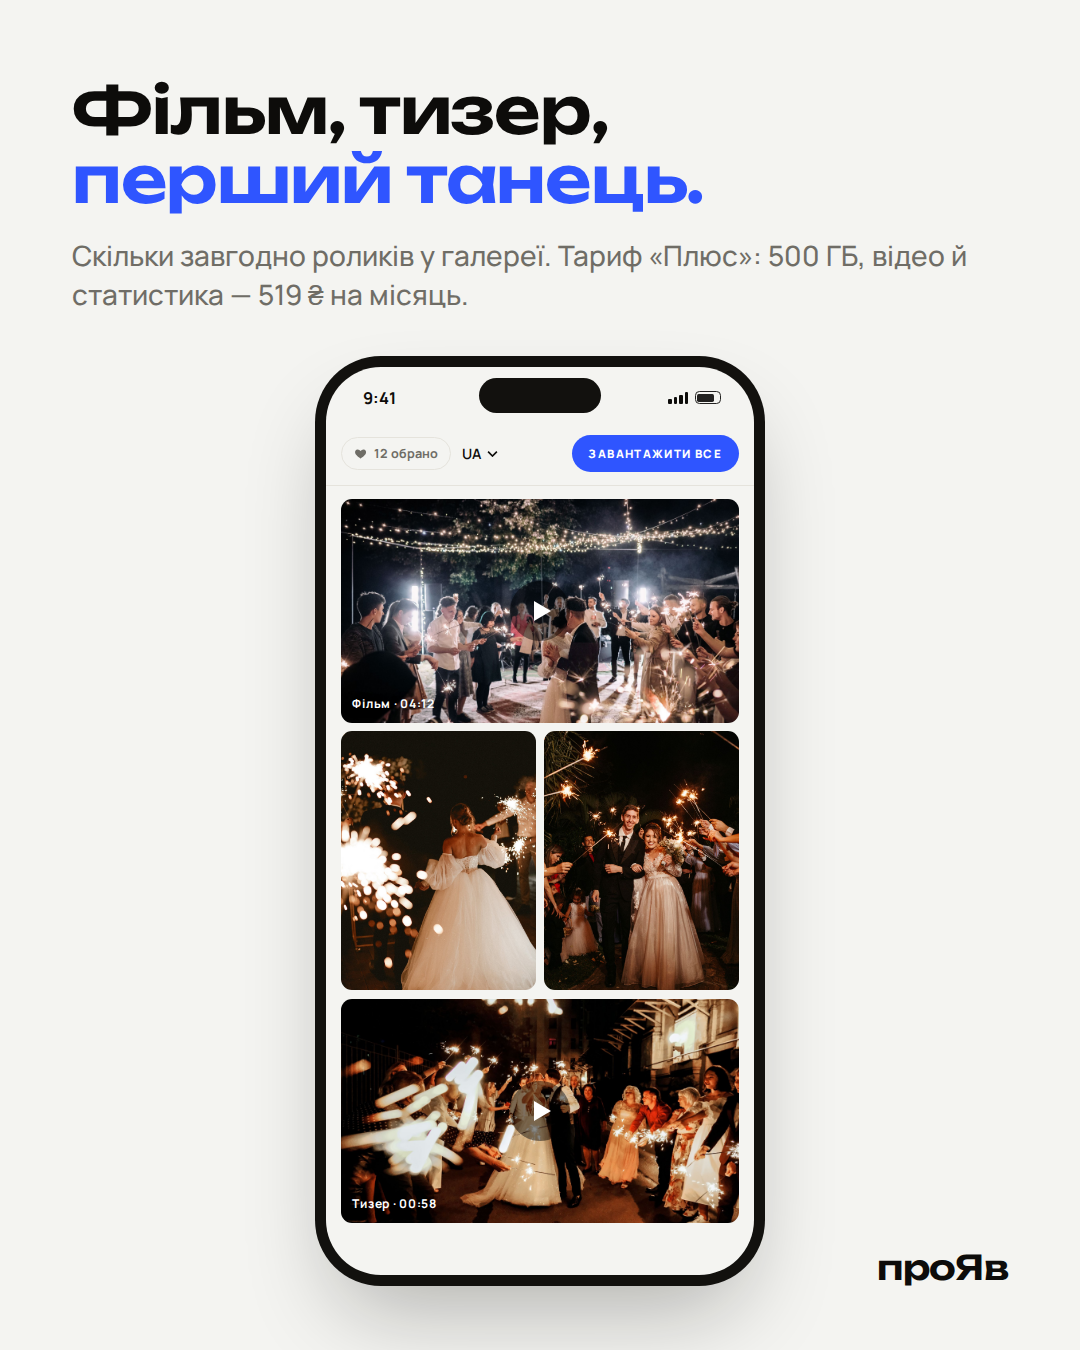
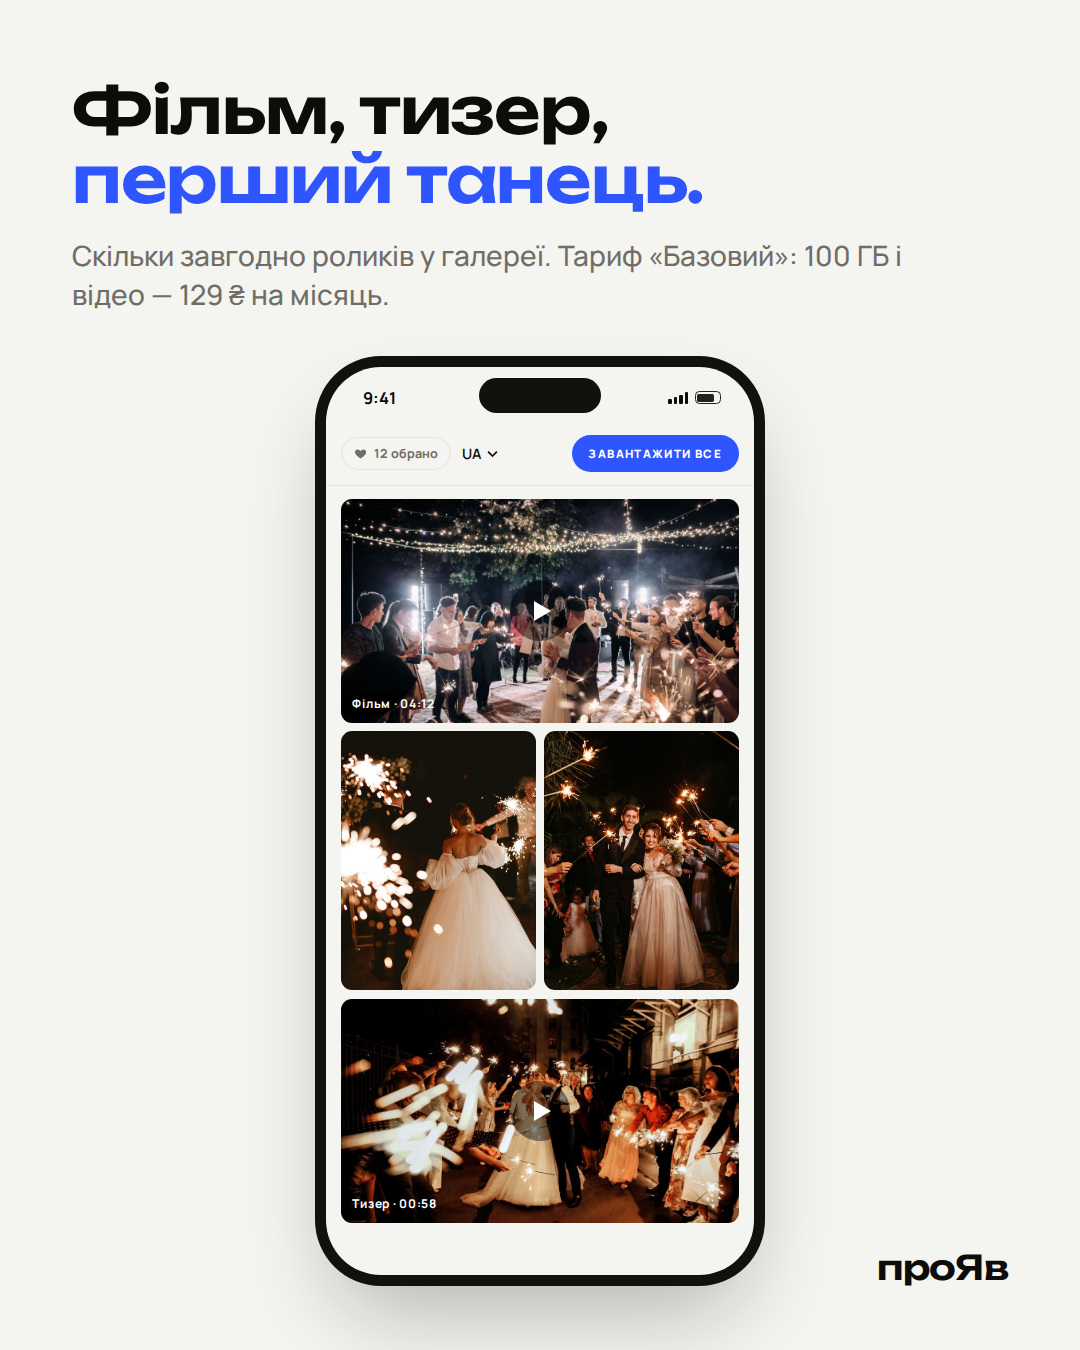
Instagram: video is on Базовий since #166 — fix post 3 and captions
Claude-Session: https://claude.ai/code/session_011MSKAXg5H2XrJH8r6h15Hd

Changed region(s): [[0.0611, 0.1867, 0.4278, 0.2489], [0.6111, 0.1556, 0.8861, 0.2178]]

diff --git a/marketing/instagram/posts.html b/marketing/instagram/posts.html
@@ -357,9 +357,9 @@ const POSTS = [
     { h: 'Рік — це<br><em>10 місяців.</em>', p: 'Базовий за рік — 1 290 ₴ замість 1 548 ₴.<br>Посилання на реєстрацію — у профілі.', layout: 'zoom', s: () => S.plans(true) },
   ]],
   ['03', [
-    { h: 'Фото і відео<br><em>в одній</em> галереї.', p: 'Весільний ролик поруч із кадрами: клієнт дивиться й завантажує все з одного посилання. З тарифу «Плюс».', layout: 'photo', photo: '29', ov: O.video },
+    { h: 'Фото і відео<br><em>в одній</em> галереї.', p: 'Весільний ролик поруч із кадрами: клієнт дивиться й завантажує все з одного посилання. З тарифу «Базовий».', layout: 'photo', photo: '29', ov: O.video },
     { h: 'Ролик грає<br><em>у галереї.</em>', p: 'Без окремих посилань на YouTube чи хмару. Клієнт дивиться й завантажує оригінал.', stat: ['1', 'посилання на фото й відео'], layout: 'side', s: S.lightbox },
-    { h: 'Фільм, тизер, <em>перший танець.</em>', p: 'Скільки завгодно роликів у галереї. Тариф «Плюс»: 500 ГБ, відео й статистика — 519 ₴ на місяць.', s: S.galleryVideo },
+    { h: 'Фільм, тизер, <em>перший танець.</em>', p: 'Скільки завгодно роликів у галереї. Тариф «Базовий»: 100 ГБ і відео — 129 ₴ на місяць.', s: S.galleryVideo },
   ]],
   ['04', [
     { h: 'Галерея мовою <em>твого клієнта.</em>', p: '9 мов: клієнт з Польщі, Німеччини чи Італії перемикає галерею сам — одним натиском.', layout: 'zoom', s: S.langOpen },

diff --git a/marketing/instagram/README.md b/marketing/instagram/README.md
@@ -16,14 +16,15 @@
 |---|---|---|---|---|
 | 01. 3 ГБ безкоштовно | обкладинка | галерей скільки хочеш | без картки, без пробного | що є безкоштовно |
 | 02. 129 ₴ за 100 ГБ | обкладинка | усі тарифи в гривні | твій логотип, не наш | рік — це 10 місяців + CTA |
-| 03. Фото і відео | обкладинка | ролик грає в галереї | фільм, тизер, перший танець (Плюс, 519 ₴) | — |
+| 03. Фото і відео | обкладинка | ролик грає в галереї | фільм, тизер, перший танець (Базовий, 129 ₴) | — |
 | 04. 9 мов | обкладинка | пароль мовою клієнта | мова вже в посиланні | 9 мов списком |
 | 05. Обране і статистика | обкладинка | клієнт ставить сердечко | список файлів одним натиском | скільки разів відкрили (Плюс) |
 | 06. Закріплений: усе, що вміє проЯв | обкладинка-перелік | перша галерея за три кроки | почни з 3 ГБ безкоштовно + CTA | — |
 
 ## Факти звірено з кодом (`src/lib/plans.ts`)
 
-- Відео, перегляди й завантаження — тільки «Плюс» (519 ₴) і «Максимальний». У бріфі відео стояло «з Базового», на слайдах виправлено.
+- Відео в галереях — з «Базового» (129 ₴), див. dianahohol97-max/proiavspace#166.
+- Перегляди й завантаження — тільки «Плюс» (519 ₴) і «Максимальний».
 - Лічильник показує, скільки разів відкрили галерею, а не хто саме.
 - Обране клієнта, пароль, термін дії галереї й водяний знак не мають обмежень за тарифом — є і на безкоштовному.
 - Річна оплата: 1 290 ₴ = 10 × 129 ₴, тобто два місяці в подарунок.
@@ -46,13 +47,13 @@
 
 **2.** 100 ГБ для галерей — 129 ₴ на місяць. У гривні, українською карткою.
 
-З «Базового» в галереї лише твій логотип, без «Створено на проЯв». За рік — 1 290 ₴, два місяці в подарунок.
+З «Базового» — відео в галереях і лише твій логотип, без «Створено на проЯв». За рік — 1 290 ₴, два місяці в подарунок.
 
 Посилання — у профілі.
 
 **3.** Весільний фільм і фото — в одній галереї. Клієнт відкриває одне посилання, дивиться й завантажує все в повній якості.
 
-Відео — з тарифу «Плюс». Посилання — у профілі.
+Відео — вже з «Базового», 129 ₴ на місяць. Посилання — у профілі.
 
 **4.** Наречені з Польщі, гості з Німеччини, родина в Італії. Галерея проЯв працює 9 мовами, навіть сторінка з паролем. Клієнт сам перемикає мову, а ти надсилаєш те саме посилання.
 
